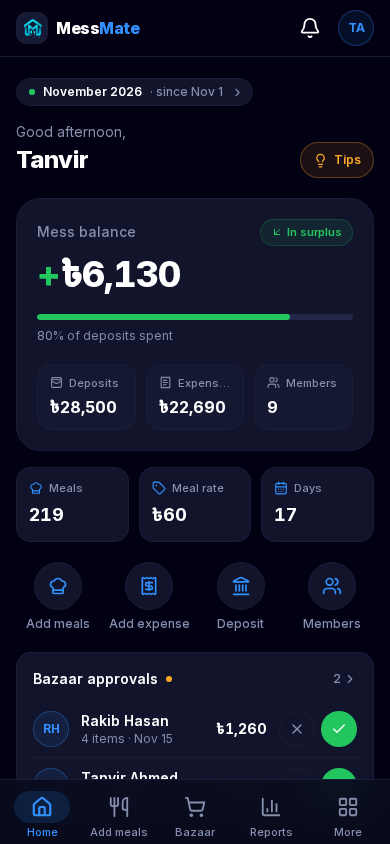
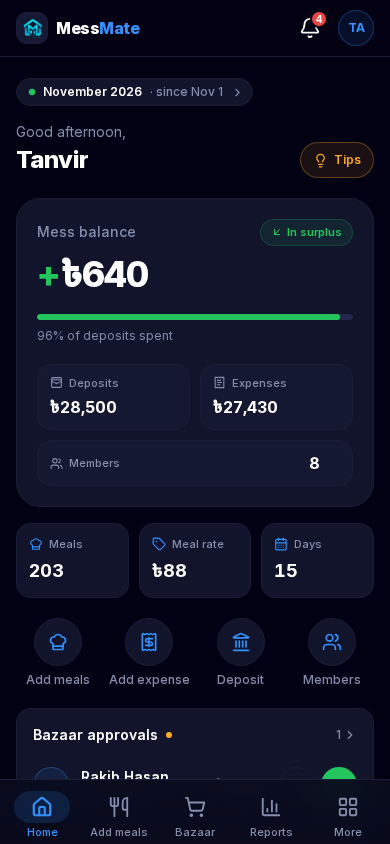
docs: refresh screenshots and update demo member count

diff --git a/README.md b/README.md
@@ -58,7 +58,7 @@ MessMate turns that monthly chore into a running ledger that everyone can see:
 | Manager (full access) | `demo.manager@messmate.demo` | `MessMate@2026` |
 | Member                | `demo.member@messmate.demo`  | `MessMate@2026` |
 
-The live demo mess, _Green Villa Bachelor Mess_, has 9 members, a **closed October 2026** with final bills and carried-forward balances, and an **active November 2026** with daily meals, bazaar submissions waiting for approval, shared bills and deposits.
+The live demo mess, _Green Villa Bachelor Mess_, has 8 members, a **closed October 2026** with final bills and carried-forward balances, and an **active November 2026** with daily meals, bazaar submissions waiting for approval, shared bills and deposits.
 
 ## Screenshots
 
